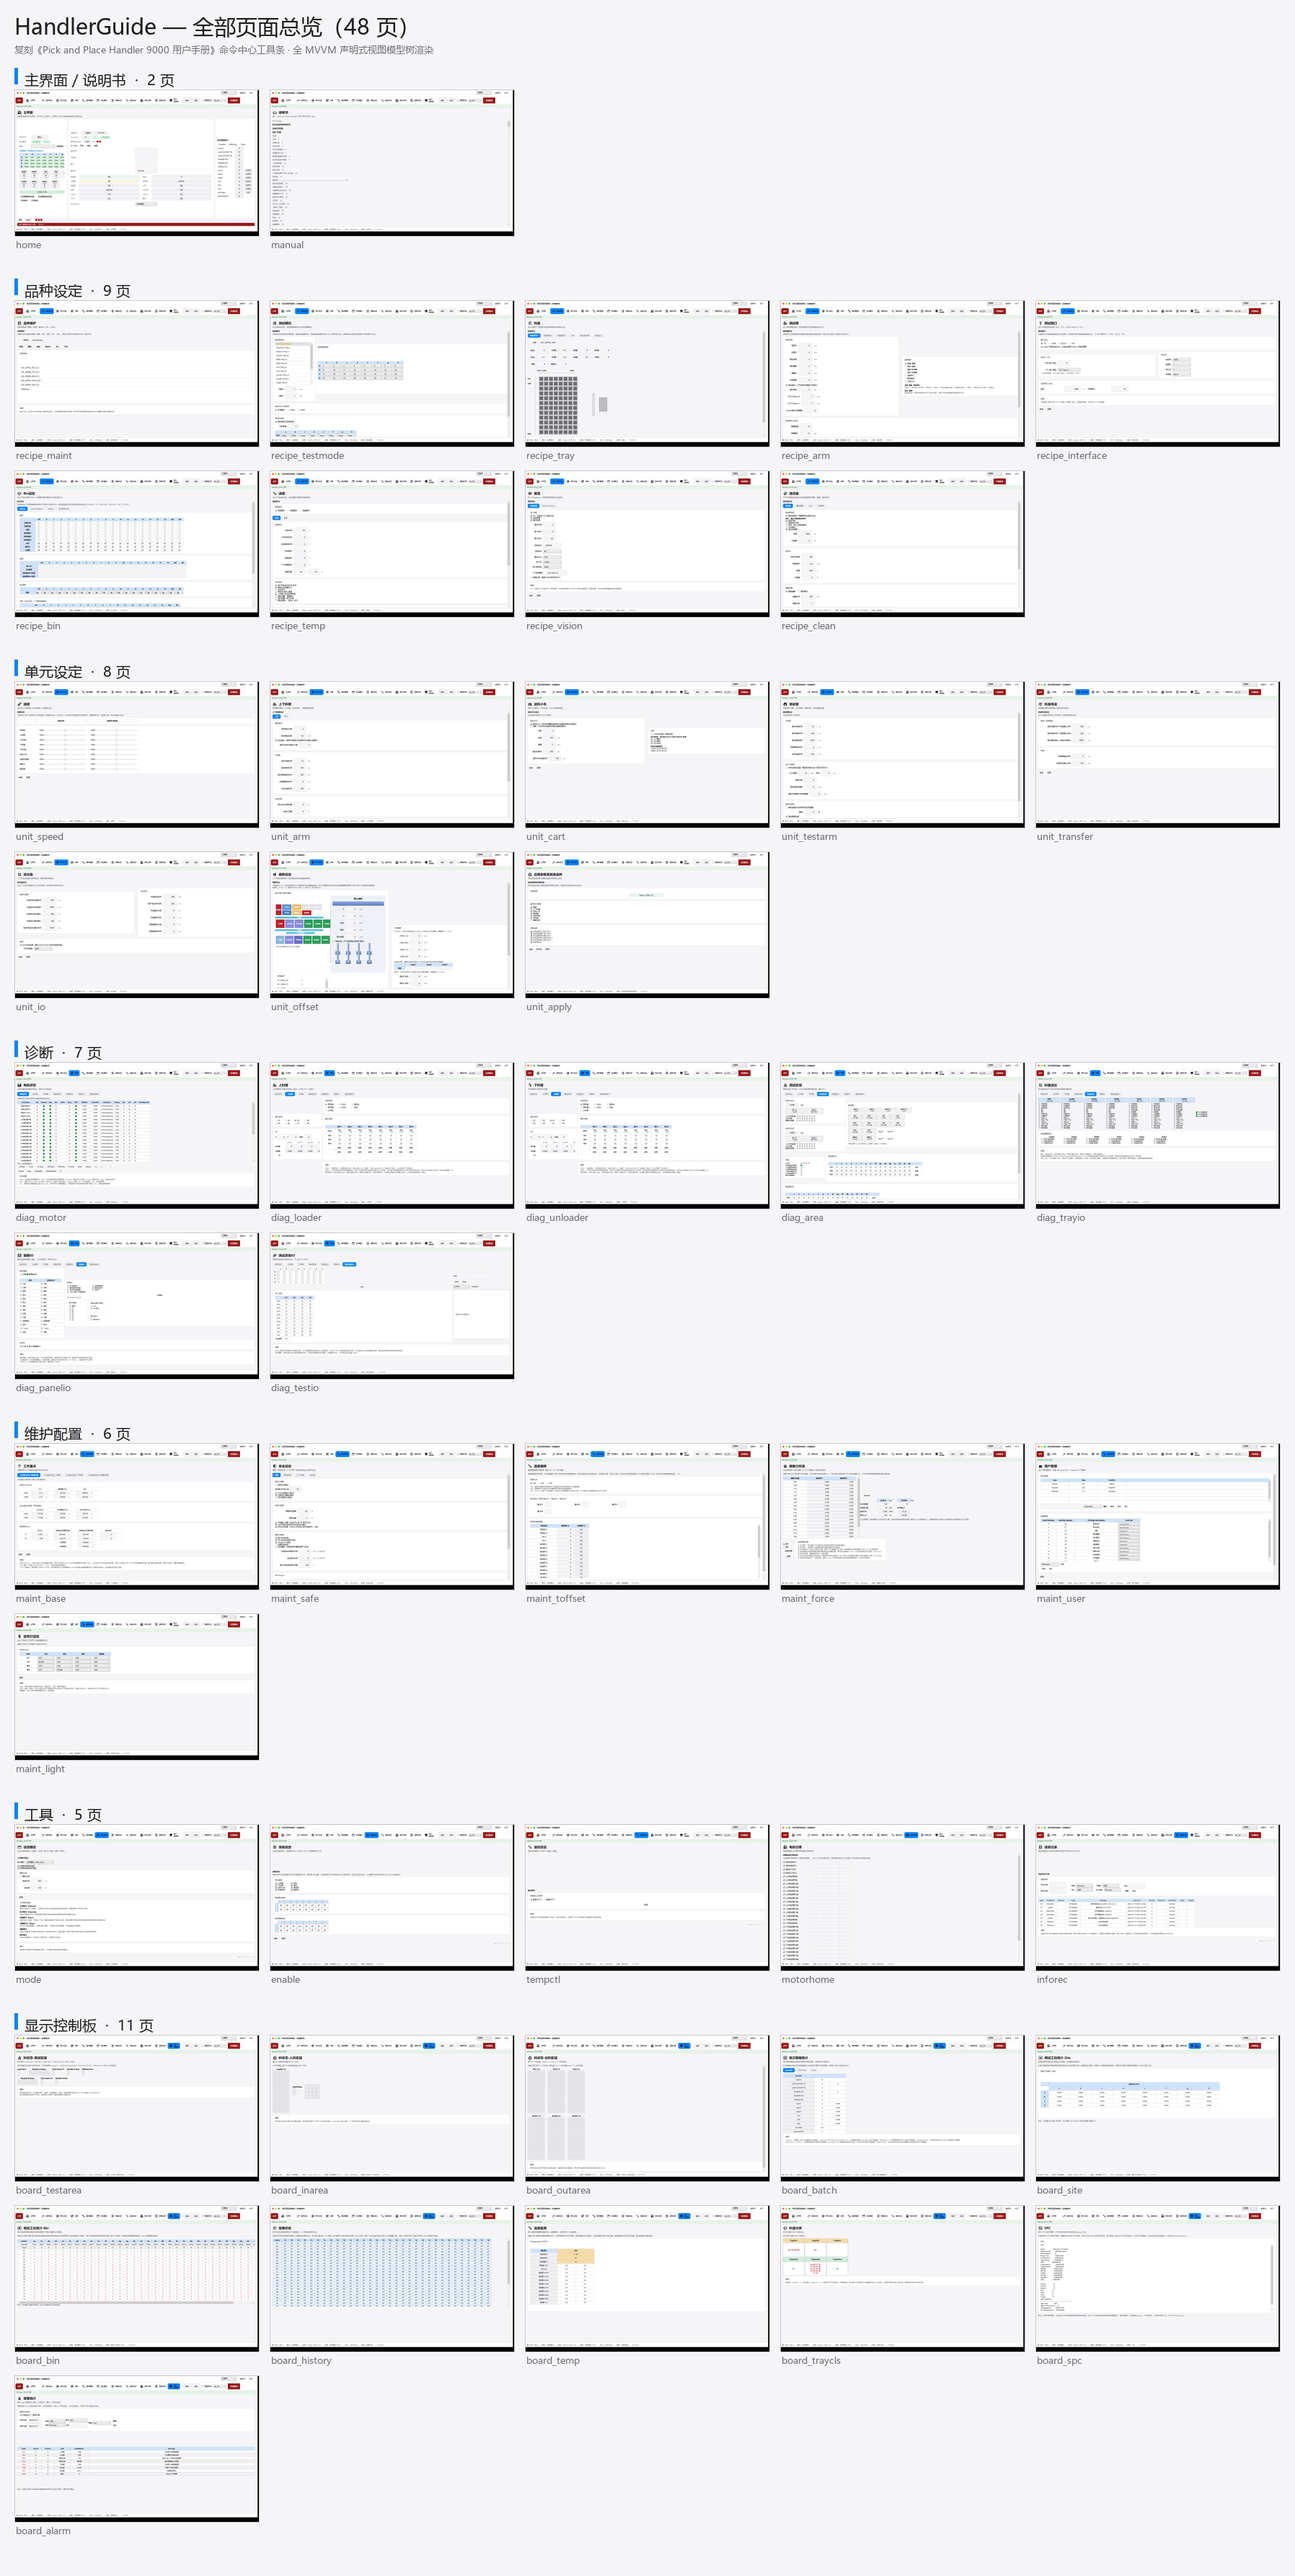
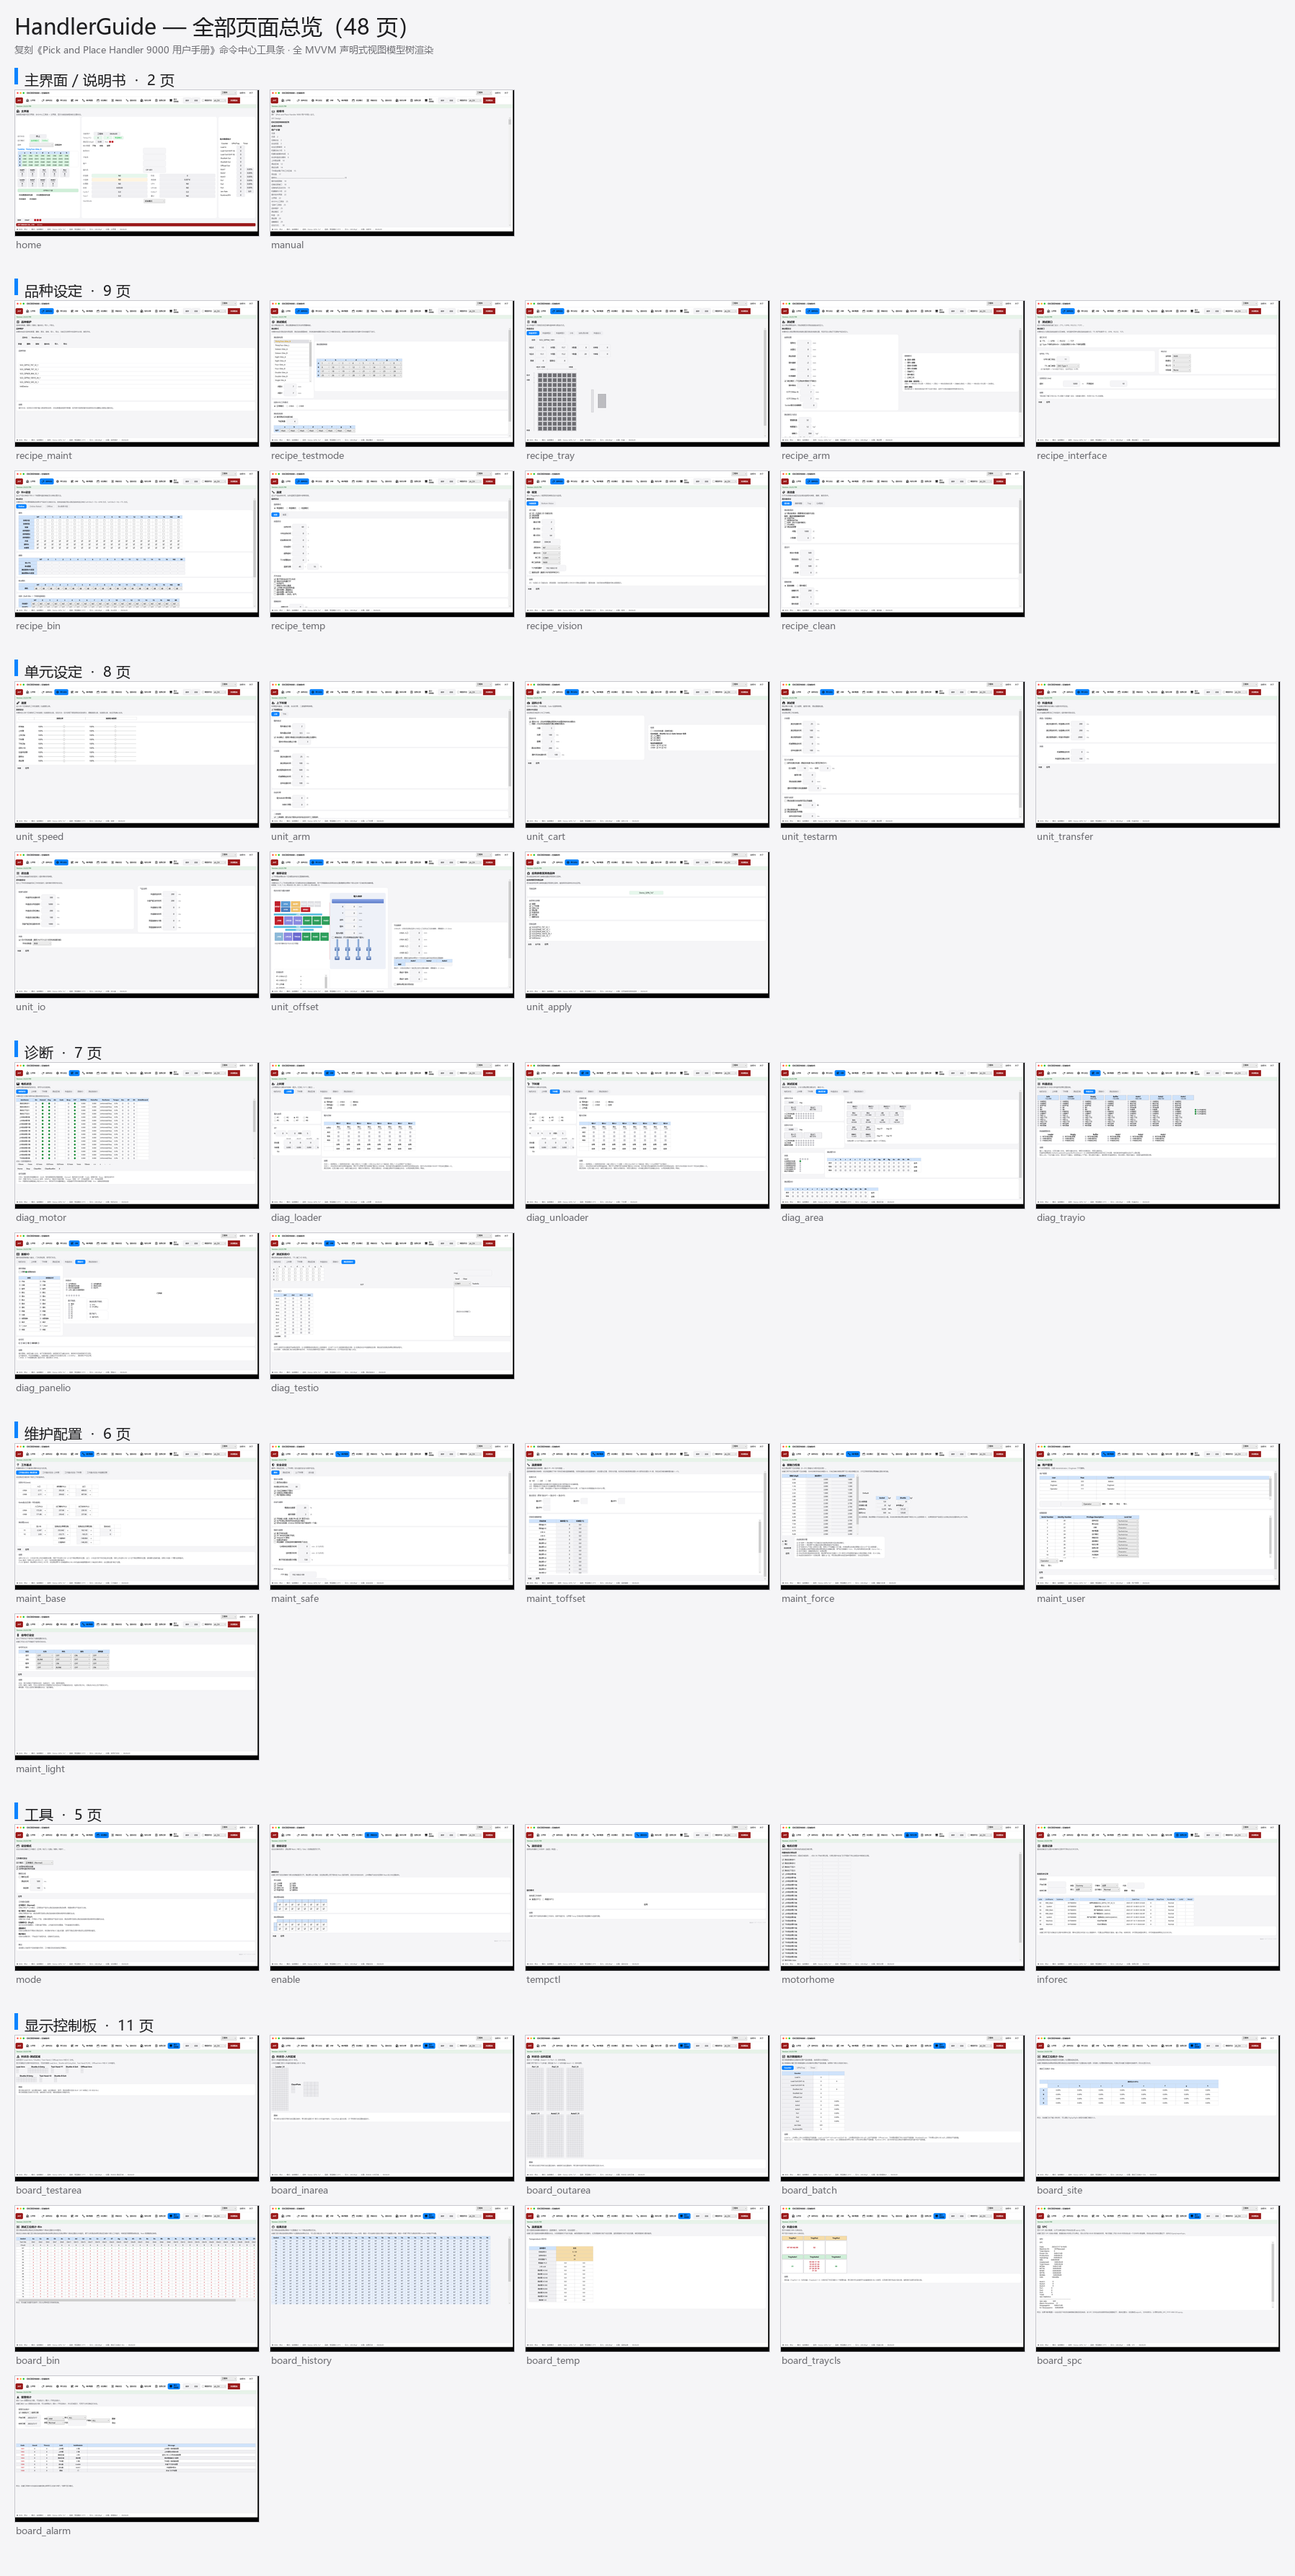
滚动条

diff --git a/Views/Elements.xaml b/Views/Elements.xaml
@@ -125,13 +125,13 @@
     <DataTemplate DataType="{x:Type vm:GroupElement}">
         <Border Background="{StaticResource CardBgBrush}"
                 BorderBrush="{StaticResource DividerBrush}" BorderThickness="1"
-                CornerRadius="12" Padding="16,13,16,13" Margin="{Binding EffectiveMargin}"
+                CornerRadius="10" Padding="14,5,14,5" Margin="{Binding EffectiveMargin}"
                 Width="{Binding Width}" Height="{Binding Height}"
                 HorizontalAlignment="{Binding HAlign}" VerticalAlignment="{Binding VAlign}"
                 ToolTip="{Binding ToolTip}">
             <StackPanel>
                 <TextBlock Text="{Binding Title}" FontSize="12.5" FontWeight="SemiBold"
-                           Foreground="{StaticResource TextSecondaryBrush}" Margin="0,0,0,8"
+                           Foreground="{StaticResource TextSecondaryBrush}" Margin="0,0,0,5"
                            Visibility="{Binding HasTitle, Converter={StaticResource BoolVis}}" />
                 <ItemsControl ItemsSource="{Binding Children}" />
             </StackPanel>
@@ -140,13 +140,13 @@
 
     <DataTemplate DataType="{x:Type vm:BandElement}">
         <Border Background="{Binding Background}" CornerRadius="10"
-                Padding="14,11,14,11" Margin="{Binding EffectiveMargin}"
+                Padding="14,5,14,5" Margin="{Binding EffectiveMargin}"
                 Width="{Binding Width}" Height="{Binding Height}"
                 HorizontalAlignment="{Binding HAlign}" VerticalAlignment="{Binding VAlign}"
                 ToolTip="{Binding ToolTip}">
             <StackPanel>
                 <TextBlock Text="{Binding Title}" FontSize="12" FontWeight="SemiBold"
-                           Foreground="{StaticResource TextPrimaryBrush}" Margin="0,0,0,8"
+                           Foreground="{StaticResource TextPrimaryBrush}" Margin="0,0,0,5"
                            Visibility="{Binding HasTitle, Converter={StaticResource BoolVis}}" />
                 <ItemsControl ItemsSource="{Binding Children}" />
             </StackPanel>

diff --git a/Views/MainWindow.xaml b/Views/MainWindow.xaml
@@ -252,17 +252,18 @@
         </Border>
 
         <!-- ================= 页面主体 ================= -->
-        <Grid Grid.Row="3" Margin="20,16,20,8">
+        <Grid Grid.Row="3" Margin="12,10,12,6">
             <Grid.RowDefinitions>
                 <RowDefinition Height="Auto" />
                 <RowDefinition Height="Auto" />
                 <RowDefinition Height="*" />
             </Grid.RowDefinitions>
-            <TextBlock Text="{Binding PageTitle}" FontSize="22" FontWeight="SemiBold"
+            <TextBlock Text="{Binding PageTitle}" FontSize="18" FontWeight="SemiBold"
                        Foreground="{StaticResource TextPrimaryBrush}" TextWrapping="Wrap" />
             <TextBlock Grid.Row="1" Text="{Binding PageDesc}" FontSize="12.5" TextWrapping="Wrap"
-                       Foreground="{StaticResource TextSecondaryBrush}" Margin="0,6,0,12" />
-            <ScrollViewer Grid.Row="2" x:Name="PageScroll" VerticalScrollBarVisibility="Auto">
+                       Foreground="{StaticResource TextSecondaryBrush}" Margin="0,4,0,8" />
+            <ScrollViewer Grid.Row="2" x:Name="PageScroll" VerticalScrollBarVisibility="Auto"
+                          HorizontalScrollBarVisibility="Disabled" Padding="0,0,2,0">
                 <ContentControl Content="{Binding CurrentContent}">
                     <ContentControl.Style>
                         <Style TargetType="ContentControl">

diff --git a/ViewModels/Elements.cs b/ViewModels/Elements.cs
@@ -165,7 +165,7 @@ namespace HandlerGuide.ViewModels
         public class GroupElement : Element
     {
         /// <summary>该类型在视图中的默认外边距。</summary>
-        protected override Thickness DefaultMargin => new Thickness(0, 0, 0, 12);
+        protected override Thickness DefaultMargin => new Thickness(0, 0, 0, 6);
 
         public string Title { get; set; }
         public List<Element> Children { get; } = new List<Element>();
@@ -176,7 +176,7 @@ namespace HandlerGuide.ViewModels
         public class BandElement : Element
     {
         /// <summary>该类型在视图中的默认外边距。</summary>
-        protected override Thickness DefaultMargin => new Thickness(0, 0, 0, 10);
+        protected override Thickness DefaultMargin => new Thickness(0, 0, 0, 6);
 
         public string Title { get; set; }
         public Brush Background { get; set; }
@@ -190,7 +190,7 @@ namespace HandlerGuide.ViewModels
         public class FieldRowElement : Element
     {
         /// <summary>该类型在视图中的默认外边距。</summary>
-        protected override Thickness DefaultMargin => new Thickness(0, 3, 0, 3);
+        protected override Thickness DefaultMargin => new Thickness(0, 2, 0, 2);
 
         public string Label { get; set; }
         public Element Control { get; set; }
@@ -209,7 +209,7 @@ namespace HandlerGuide.ViewModels
         public class FillRowElement : Element
     {
         /// <summary>该类型在视图中的默认外边距。</summary>
-        protected override Thickness DefaultMargin => new Thickness(0, 2, 0, 2);
+        protected override Thickness DefaultMargin => new Thickness(0, 1, 0, 1);
 
         public string Label { get; set; }
         public Element Control { get; set; }
@@ -440,7 +440,7 @@ namespace HandlerGuide.ViewModels
     public class SliderRowElement : Element
     {
         /// <summary>该类型在视图中的默认外边距。</summary>
-        protected override Thickness DefaultMargin => new Thickness(0, 4, 0, 4);
+        protected override Thickness DefaultMargin => new Thickness(0, 2, 0, 2);
 
         private readonly string _key;
         private double _value;

diff --git a/ViewModels/HomePages.cs b/ViewModels/HomePages.cs
@@ -76,7 +76,7 @@ namespace HandlerGuide.ViewModels
                 E.MiniBtn("自动清洁", () => m.Log("信息", "自动清洁")),
                 E.MiniBtn("手动清洁", () => m.Log("信息", "手动清洁"))));
 
-            var leftBox = E.Box(E.Scroll(left), E.CardBg, null, 0, 12, new Thickness(14), new Thickness(0, 0, 12, 0));
+            var leftBox = E.Box(left, E.CardBg, null, 0, 12, new Thickness(10), new Thickness(0, 0, 12, 0));
             leftBox.VAlign = VerticalAlignment.Stretch;
             root.Add(leftBox, col: 0);
 
@@ -121,7 +121,7 @@ namespace HandlerGuide.ViewModels
                 new[] { "初始模式", "连续模式", "复测-初始模式", "复测-连续模式" }, 150), 74));
 
             mid.Children.Add(stats);
-            var midBox = E.Box(E.Scroll(mid), E.CardBg, null, 0, 12, new Thickness(14), new Thickness(0, 0, 12, 0));
+            var midBox = E.Box(mid, E.CardBg, null, 0, 12, new Thickness(10), new Thickness(0, 0, 12, 0));
             midBox.VAlign = VerticalAlignment.Stretch;
             root.Add(midBox, col: 1);
 
@@ -144,7 +144,7 @@ namespace HandlerGuide.ViewModels
                     cg.Add(E.Display("0/0", 58, E.BandGrey), i, 2);
             }
             right.Children.Add(cg);
-            var rightBox = E.Box(E.Scroll(right), E.CardBg, null, 0, 12, new Thickness(14));
+            var rightBox = E.Box(right, E.CardBg, null, 0, 12, new Thickness(10));
             rightBox.VAlign = VerticalAlignment.Stretch;
             root.Add(rightBox, col: 2);
 
